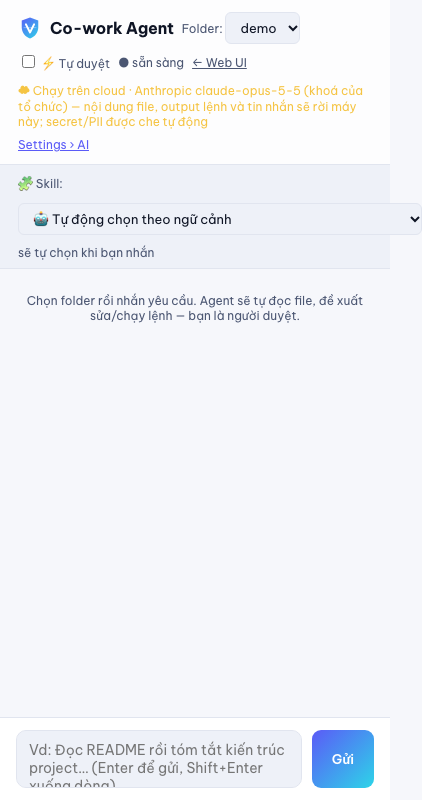
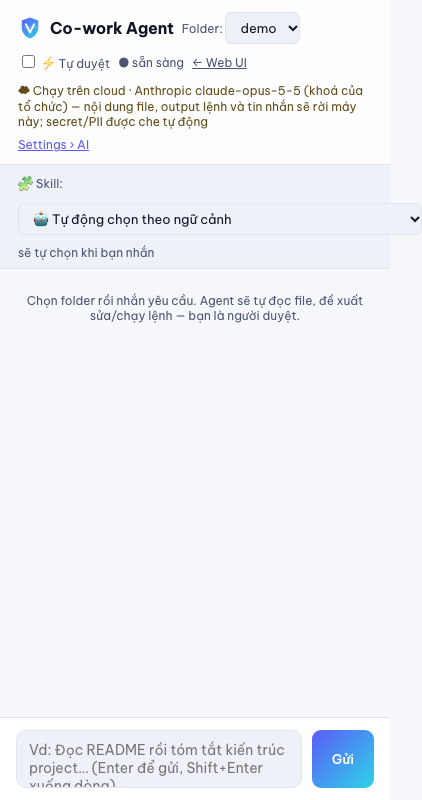
[AI PR-5b] Co-work status line: WCAG AA warning colours; refused pinned-cloud shows leaves-machine text

Changed region(s): [[0.0308, 0.0938, 0.8626, 0.1562]]

diff --git a/web/agent-route.js b/web/agent-route.js
@@ -25,6 +25,7 @@
       AI_RATE_LIMIT: 'Vượt giới hạn số yêu cầu AI — thử lại sau ít phút',
       AI_NOT_ALLOWED: 'Chính sách AI không cho phép model này — xem Settings › AI',
       AI_CLOUD_NO_TOOLS: 'Model cloud chưa qua kiểm tra tool-calling — xem Settings › AI',
+      pinnedCloud: 'Hội thoại này đã chạy trên cloud — nội dung đã gửi đã rời máy này',
       refused: 'Co-work không chạy được với cài đặt AI hiện tại — xem Settings › AI',
       riskTitle: 'Hành động rủi ro — tự duyệt đã bị tắt cho hành động này',
       riskSensitive: 'Gửi nội dung file nhạy cảm này lên cloud?',
@@ -51,6 +52,7 @@
       AI_RATE_LIMIT: 'AI request rate limit reached — try again in a few minutes',
       AI_NOT_ALLOWED: 'AI policy does not allow this model — see Settings › AI',
       AI_CLOUD_NO_TOOLS: 'The cloud model has not passed the tool-calling check — see Settings › AI',
+      pinnedCloud: 'This conversation ran in the cloud — content already sent left this machine',
       refused: 'Co-work cannot run with the current AI settings — see Settings › AI',
       riskTitle: 'Risky action — auto-approve is disabled for this action',
       riskSensitive: 'Send the contents of this sensitive file to the cloud?',
@@ -78,7 +80,9 @@
     if (!info || typeof info !== 'object') return { text: t('unknown', null, l), tone: 'unknown' };
     if (info.state === 'refused') {
       var known = ['AI_ROUTE_CHANGED', 'AI_NO_CREDENTIAL', 'AI_CRED_REVOKED', 'AI_CRED_FORBIDDEN', 'AI_QUOTA', 'AI_RATE_LIMIT', 'AI_NOT_ALLOWED', 'AI_CLOUD_NO_TOOLS'];
-      return { text: t(known.indexOf(info.code) >= 0 ? info.code : 'refused', null, l), tone: 'refused', code: info.code || null };
+      var rt = t(known.indexOf(info.code) >= 0 ? info.code : 'refused', null, l);
+      if (info.route_kind === 'cloud') rt += ' · ' + t('pinnedCloud', null, l);   // hội thoại đã ghim cloud: vẫn nói rõ dữ liệu đã rời máy
+      return { text: rt, tone: 'refused', code: info.code || null };
     }
     if (info.state !== 'ok') return { text: t('unknown', null, l), tone: 'unknown' };
     if (info.route_kind === 'cloud') {

diff --git a/web/agent.html b/web/agent.html
@@ -89,8 +89,14 @@
   .conv.active { background: var(--brand-soft); border-color: color-mix(in srgb, var(--brand-500) 35%, transparent); }
   @media (max-width: 700px) { #sidebar { display: none; } header { gap: 8px; } }
   #routeLine { flex-basis: 100%; order: 10; display: flex; gap: 8px; flex-wrap: wrap; align-items: baseline; margin: 0; }
-  #routeLine[data-tone="cloud"] #routeText { color: var(--yellow); }
-  #routeLine[data-tone="refused"] #routeText { color: var(--red); }
+  /* Chữ cảnh báo phải đạt WCAG AA (>=4.5:1) ở cả light và dark: dark dùng token gốc, light pha đen cho tối hơn */
+  #routeLine { --route-warn: var(--yellow); --route-bad: var(--red); }
+  :root[data-theme="light"] #routeLine { --route-warn: color-mix(in srgb, var(--yellow) 40%, #000); --route-bad: color-mix(in srgb, var(--critical) 70%, #000); }
+  @media (prefers-color-scheme: light) {
+    :root:not([data-theme="dark"]) #routeLine { --route-warn: color-mix(in srgb, var(--yellow) 40%, #000); --route-bad: color-mix(in srgb, var(--critical) 70%, #000); }
+  }
+  #routeLine[data-tone="cloud"] #routeText { color: var(--route-warn); }
+  #routeLine[data-tone="refused"] #routeText { color: var(--route-bad); }
   .confirm.risky { border-color: var(--red); }
   .confirm.risky h3 { color: var(--red); }
   .confirm .risk { font-size: 13px; margin: 0 0 8px; }

diff --git a/tests/test_ui_coworker_route.py b/tests/test_ui_coworker_route.py
@@ -260,7 +260,9 @@ def test_each_refusal_text(browser, base_url, admin, env, code, lang):
     body = {"state": "refused", "code": code, "message_key": "x", "route_kind": "cloud", "provider": "anthropic",
             "model": "claude-opus-5-5", "data_leaves_machine": True, "pinned": True, "settings_route": "local", "mode": "local_only"}
     ctx, page, _ = open_page(browser, base_url, admin, lang=lang, route=lambda p: fulfill(p, "**/api/coworker/agent/route-preview", body))
-    assert line(page) == REFUSALS[code][0 if lang == "en" else 1]
+    suffix = {"en": " · This conversation ran in the cloud — content already sent left this machine",
+              "vi": " · Hội thoại này đã chạy trên cloud — nội dung đã gửi đã rời máy này"}[lang]
+    assert line(page) == REFUSALS[code][0 if lang == "en" else 1] + suffix       # đã ghim cloud → vẫn nói dữ liệu đã rời máy
     assert page.locator("#routeLine").get_attribute("data-tone") == "refused"
     if code == "AI_ROUTE_CHANGED":
         shot(page, f"refused-light-{lang}")
@@ -435,4 +437,43 @@ def test_mobile_width_status_line_fits(browser, base_url, admin, env):
     assert page.evaluate("document.querySelector('#routeLine').getBoundingClientRect().right <= window.innerWidth")
     assert page.evaluate("document.querySelector('#routeLine').scrollWidth <= document.querySelector('#routeLine').clientWidth + 1")
     shot(page, "cloud-390-vi")
+    ctx.close()
+
+
+def test_refusal_without_cloud_pin_has_no_leave_text(browser, base_url, admin, env):
+    body = {"state": "refused", "code": "AI_NO_CREDENTIAL", "route_kind": None, "data_leaves_machine": False}
+    ctx, page, _ = open_page(browser, base_url, admin, lang="en", route=lambda p: fulfill(p, "**/api/coworker/agent/route-preview", body))
+    assert line(page) == REFUSALS["AI_NO_CREDENTIAL"][0]
+    ctx.close()
+
+
+def _lum(rgb):
+    def ch(v):
+        v /= 255
+        return v / 12.92 if v <= 0.03928 else ((v + 0.055) / 1.055) ** 2.4
+    r, g, b = (ch(x) for x in rgb)
+    return 0.2126 * r + 0.7152 * g + 0.0722 * b
+
+
+def _contrast(page):
+    """Tỉ lệ tương phản (WCAG) giữa màu chữ thật và màu nền thật của #routeText (qua canvas để quy đổi mọi cú pháp màu)."""
+    rgbs = page.evaluate("""() => {
+        const toRgb = (c) => { const x = document.createElement('canvas').getContext('2d'); x.fillStyle = '#000'; x.fillStyle = c; x.fillRect(0,0,1,1);
+          const d = x.getImageData(0,0,1,1).data; return [d[0], d[1], d[2]]; };
+        let bg = null; for (let e = document.querySelector('#routeText'); e && !bg; e = e.parentElement) {
+          const c = getComputedStyle(e).backgroundColor; if (c && !/rgba\(.*, 0\)|transparent/.test(c)) bg = c; }
+        return [toRgb(getComputedStyle(document.querySelector('#routeText')).color), toRgb(bg || getComputedStyle(document.body).backgroundColor)];
+    }""")
+    a, b = _lum(rgbs[0]), _lum(rgbs[1])
+    return (max(a, b) + 0.05) / (min(a, b) + 0.05)
+
+
+@pytest.mark.parametrize("theme", ["light", "dark"])
+@pytest.mark.parametrize("tone", ["cloud", "refused"])
+def test_warning_text_meets_wcag_aa(browser, base_url, admin, env, theme, tone):
+    body = ({"state": "ok", "route_kind": "cloud", "provider": "anthropic", "model": "claude-opus-5-5", "key_scope": "org", "key_hint": None}
+            if tone == "cloud" else {"state": "refused", "code": "AI_QUOTA", "route_kind": "cloud"})
+    ctx, page, _ = open_page(browser, base_url, admin, lang="en", theme=theme, route=lambda p: fulfill(p, "**/api/coworker/agent/route-preview", body))
+    assert page.locator("#routeLine").get_attribute("data-tone") == tone
+    assert _contrast(page) >= 4.5, _contrast(page)
     ctx.close()
